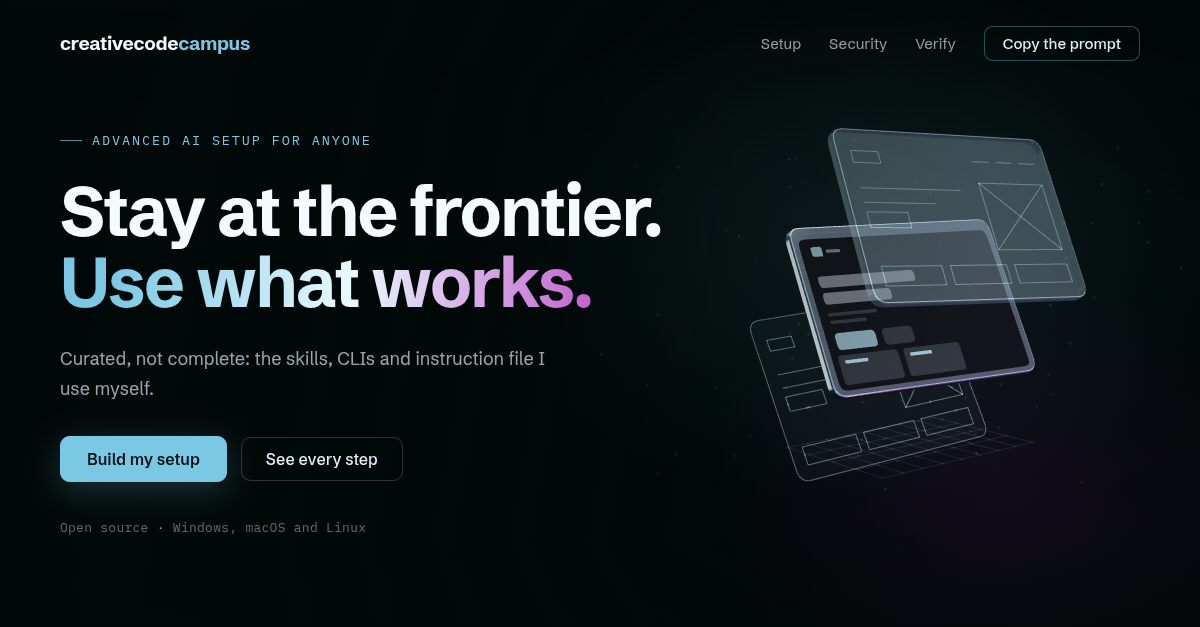
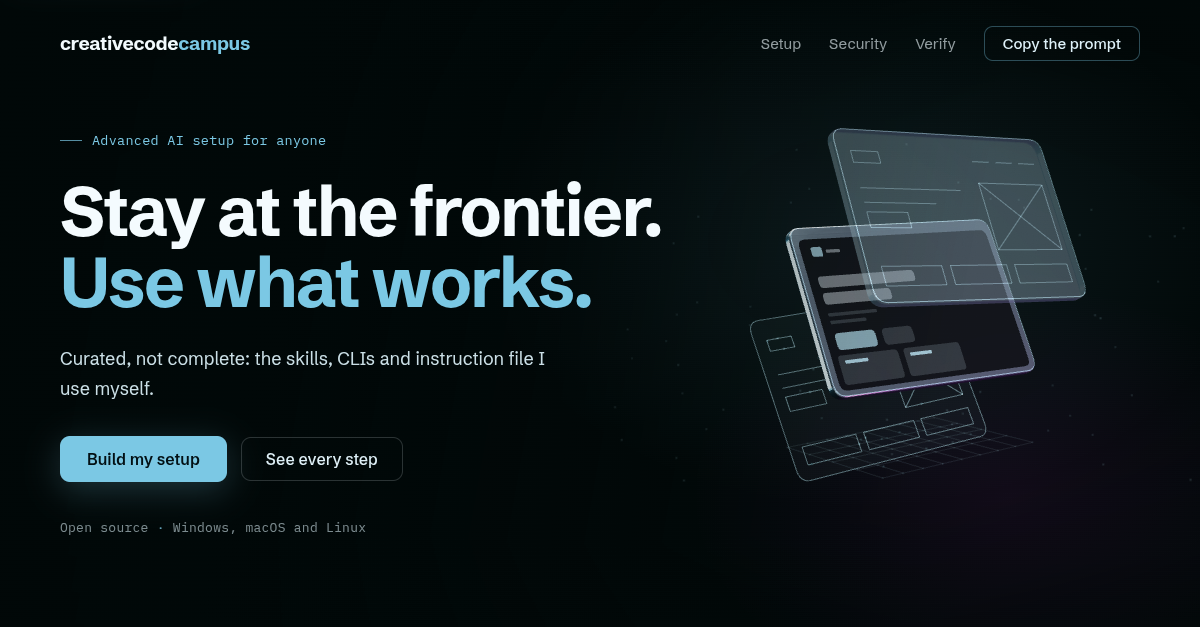
Slop review: solid cyan headline accent, brighter body and meta text, sentence-case labels

diff --git a/src/content/copy.ts b/src/content/copy.ts
@@ -13,7 +13,6 @@ export const heroCopy = {
 // COPY: owner review
 export const sectionCopy = {
   agent: {
-    eyebrow: 'Step zero',
     title: 'Start with one coding agent. I recommend Claude Code.',
     intro: 'A coding agent reads your files, runs commands and writes changes on your computer, with your permission.',
     installNote: 'Install and sign in to your agent first, with the steps below. The prompt runs inside it.',
@@ -23,17 +22,14 @@ export const sectionCopy = {
     intro: 'Linux commands are for Debian and Ubuntu.',
   },
   goals: {
-    eyebrow: 'Goals',
     title: 'Tick what you want to do. The setup follows.',
     intro: 'Always included: Git, Node.js, the grill-me skill, Context7 and the house rules.',
   },
   extras: {
-    eyebrow: 'Extras',
     title: 'Two extras, off by default. Add them later.',
     intro: 'Both shorten output to save usage, and both make mistakes harder to spot.',
   },
   setup: {
-    eyebrow: 'Your setup',
     title: 'Copy one prompt. Or run every step yourself.',
     intro: 'The agent installs everything in order, shows each command first and stops when it needs you.',
     copyPromptCta: 'Copy the prompt',
@@ -49,7 +45,6 @@ export const sectionCopy = {
     projectLabel: 'Project template',
   },
   verify: {
-    eyebrow: 'Verify',
     title: 'Check what is installed.',
     intro: 'Run it in a new terminal window. It prints each tool’s version or “not installed”.',
     copyCta: 'Copy the check',
@@ -58,7 +53,6 @@ export const sectionCopy = {
 
 // COPY: owner review
 export const securityCopy = {
-  eyebrow: 'Before you copy',
   title: 'Read what it does. Then run it.',
   blocks: [
     {

diff --git a/src/components/ui/Section.tsx b/src/components/ui/Section.tsx
@@ -5,7 +5,8 @@ import { splitTitle } from './headline';
 
 interface SectionProps {
   id: string;
-  eyebrow: string;
+  /** Optional label above the headline; only for labels that add information. */
+  eyebrow?: string;
   /** Content title; a two-sentence title puts the second sentence in the gradient. */
   title: string;
   /** One or two sentences under the headline. */
@@ -15,7 +16,7 @@ interface SectionProps {
 }
 
 /**
- * Page section: eyebrow, two-sentence gradient headline, short intro, content.
+ * Page section: optional label, two-sentence headline, short intro, content.
  * Reveals once with ccc-up when it first scrolls into view.
  */
 export function Section({ id, eyebrow, title, intro, children, className = '' }: SectionProps) {
@@ -25,7 +26,7 @@ export function Section({ id, eyebrow, title, intro, children, className = '' }:
   return (
     <section ref={ref} id={id} aria-labelledby={headingId} className={`ccc-reveal scroll-mt-6 ${className}`}>
       <div className="flex max-w-copy flex-col gap-[18px]">
-        <EyebrowLabel>{eyebrow}</EyebrowLabel>
+        {eyebrow && <EyebrowLabel>{eyebrow}</EyebrowLabel>}
         <GradientHeadline as="h2" size="section" id={headingId} lead={lead} gradient={gradient} />
         {intro && <div className="max-w-measure text-body text-ink-body">{intro}</div>}
       </div>

diff --git a/src/components/sections/ConsultingSection.tsx b/src/components/sections/ConsultingSection.tsx
@@ -1,5 +1,5 @@
 import { CONSULTING as C } from '../consulting';
-import { Button, EyebrowLabel, GradientHeadline } from '../ds';
+import { Button, GradientHeadline } from '../ds';
 import { useReveal } from '../../hooks/useReveal';
 
 const isExternal = (url: string) => /^https?:\/\//.test(url);
@@ -41,7 +41,6 @@ export function ConsultingSection() {
       </figure>
 
       <div className="flex max-w-copy flex-col items-start gap-[22px]">
-        <EyebrowLabel>{C.eyebrow}</EyebrowLabel>
         <GradientHeadline as="h2" size="section" id="consulting-heading" lead={C.lead} gradient={C.gradient} />
         <p className="m-0 max-w-measure text-body text-ink-body">{C.body}</p>
         <p className="m-0 max-w-measure text-ui leading-[1.65] text-ink-body">{C.bio}</p>

diff --git a/src/styles/components.css b/src/styles/components.css
@@ -99,8 +99,7 @@
     gap: 10px;
     font-family: var(--ccc-font-mono);
     font-size: var(--ccc-eyebrow-size);
-    letter-spacing: var(--ccc-eyebrow-ls);
-    text-transform: uppercase;
+    letter-spacing: var(--ccc-footnote-ls);
     color: var(--ccc-cyan);
   }
   .ccc-eyebrow__rule {
@@ -111,11 +110,10 @@
     opacity: 0.7;
   }
 
-  .ccc-gradient-text {
-    background-image: var(--ccc-text-gradient);
-    -webkit-background-clip: text;
-    background-clip: text;
-    color: transparent;
+  /* Second headline sentence: solid brand cyan. Replaced the brand's background-clip
+     gradient text (reads as an AI-template tell; owner decision 2026-09-24). */
+  .ccc-headline-accent {
+    color: var(--ccc-cyan);
   }
 
   .ccc-meta {

diff --git a/src/components/sections/AgentsMdSection.tsx b/src/components/sections/AgentsMdSection.tsx
@@ -15,8 +15,7 @@ const copy = sectionCopy.houseRules;
 export function AgentsMdSection({ files, selection }: AgentsMdSectionProps) {
   const picked = agents.filter((a) => selection.agents.includes(a.id));
   return (
-    // COPY: owner review — eyebrow
-    <Section id="house-rules" eyebrow="AGENTS.md and CLAUDE.md" title={copy.title} intro={<p className="m-0">{copy.intro}</p>}>
+    <Section id="house-rules" title={copy.title} intro={<p className="m-0">{copy.intro}</p>}>
       <div className="flex flex-col gap-6">
         <div className="flex flex-col gap-3">
           <CodeBlock code={files.global} label={copy.globalLabel} context={copy.globalLabel} wrap />

diff --git a/src/components/sections/SetupSection.tsx b/src/components/sections/SetupSection.tsx
@@ -22,7 +22,7 @@ const copy = sectionCopy.setup;
 export function SetupSection({ selection, plan, prompt, verifyScript, onSetOs }: SetupSectionProps) {
   const panelId = 'manual-steps-panel';
   return (
-    <Section id="your-setup" eyebrow={copy.eyebrow} title={copy.title} intro={<p className="m-0">{copy.intro}</p>}>
+    <Section id="your-setup" title={copy.title} intro={<p className="m-0">{copy.intro}</p>}>
       <div id="prompt" className="ccc-hairline-card scroll-mt-6 flex flex-col gap-4 p-5 sm:p-6">
         {/* COPY: owner review — sub-headings */}
         <h3 className="m-0 text-body font-semibold text-ink">Path one: copy the prompt</h3>

diff --git a/src/components/sections/VerifySection.tsx b/src/components/sections/VerifySection.tsx
@@ -17,7 +17,7 @@ export function VerifySection({ selection, script, onSetOs }: VerifySectionProps
   const panelId = 'verify-panel';
   const os = selection.os;
   return (
-    <Section id="verify" eyebrow={copy.eyebrow} title={copy.title} intro={<p className="m-0">{copy.intro}</p>}>
+    <Section id="verify" title={copy.title} intro={<p className="m-0">{copy.intro}</p>}>
       <OsTabs value={os} onChange={onSetOs} idBase="verify" panelId={panelId} label="Operating system for the verify script" />
       <div id={panelId} role="tabpanel" aria-labelledby={tabId('verify', os)} className="mt-6">
         <div key={os} className="ccc-fade">

diff --git a/src/components/sections/ChooseSection.tsx b/src/components/sections/ChooseSection.tsx
@@ -25,7 +25,7 @@ export function ChooseSection({ selection, onToggleAgent, onSetOs }: ChooseSecti
   };
   const showAgentHint = keptLast || selection.agents.length === 0;
   return (
-    <Section id="choose" eyebrow={copy.eyebrow} title={copy.title} intro={<p className="m-0">{copy.intro}</p>}>
+    <Section id="choose" title={copy.title} intro={<p className="m-0">{copy.intro}</p>}>
       <fieldset className="m-0 min-w-0 border-0 p-0">
         <legend className="ccc-visually-hidden">Coding agents</legend>
         <div className="grid gap-3 [grid-template-columns:repeat(auto-fill,minmax(min(100%,240px),1fr))]">

diff --git a/src/components/sections/GoalsSection.tsx b/src/components/sections/GoalsSection.tsx
@@ -12,7 +12,7 @@ const { goals: copy } = sectionCopy;
 
 export function GoalsSection({ selection, onToggle }: GoalsSectionProps) {
   return (
-    <Section id="goals" eyebrow={copy.eyebrow} title={copy.title} intro={<p className="m-0">{copy.intro}</p>}>
+    <Section id="goals" title={copy.title} intro={<p className="m-0">{copy.intro}</p>}>
       <fieldset className="m-0 min-w-0 border-0 p-0">
         <legend className="ccc-visually-hidden">Goals</legend>
         <div className="grid gap-3 [grid-template-columns:repeat(auto-fill,minmax(min(100%,280px),1fr))]">

diff --git a/src/components/ds/GradientHeadline.tsx b/src/components/ds/GradientHeadline.tsx
@@ -13,7 +13,7 @@ interface GradientHeadlineProps {
   style?: CSSProperties;
 }
 
-/** Display headline: two short sentences, the second carries the gradient. */
+/** Display headline: two short sentences, the second in solid brand cyan. */
 export function GradientHeadline({
   lead,
   gradient,
@@ -30,7 +30,7 @@ export function GradientHeadline({
       {gradient && (
         <>
           <br />
-          <span className="ccc-gradient-text">{gradient}</span>
+          <span className="ccc-headline-accent">{gradient}</span>
         </>
       )}
     </Tag>

diff --git a/src/styles/tokens/colors.css b/src/styles/tokens/colors.css
@@ -26,8 +26,8 @@
   --ccc-text-display: #F4FBFE;
   --ccc-text-strong: #F2FAFD;
   --ccc-text: #EAF6FA;
-  --ccc-text-body: rgba(214, 235, 242, 0.70);
-  --ccc-text-muted: rgba(214, 235, 242, 0.42);
+  --ccc-text-body: rgba(214, 235, 242, 0.95);   /* was 0.70; raised for legibility (owner, 2026-09-24) */
+  --ccc-text-muted: rgba(214, 235, 242, 0.58);  /* was 0.42 (3.5:1); now ≥ 4.5:1 on the ground */
   --ccc-text-nav: rgba(234, 246, 250, 0.62);
   --ccc-on-cyan: #021014;         /* label on a cyan fill */
   --ccc-on-cyan-active: #010B0E;

diff --git a/src/components/consulting.ts b/src/components/consulting.ts
@@ -3,7 +3,6 @@ import morrisPhoto from '../assets/morris.jpg';
 // COPY: owner review — consulting section. Swap values here; no component code
 // needs to change. Do not add claims beyond these strings.
 export const CONSULTING = {
-  eyebrow: 'AI-readiness consulting',
   lead: 'Setup is step one.',
   gradient: 'Habits make it stick.',
   body: 'I help founders and teams go further: advanced habits, a knowledge system, one setup for the whole team. The first call is free and includes an AI-readiness check.',
